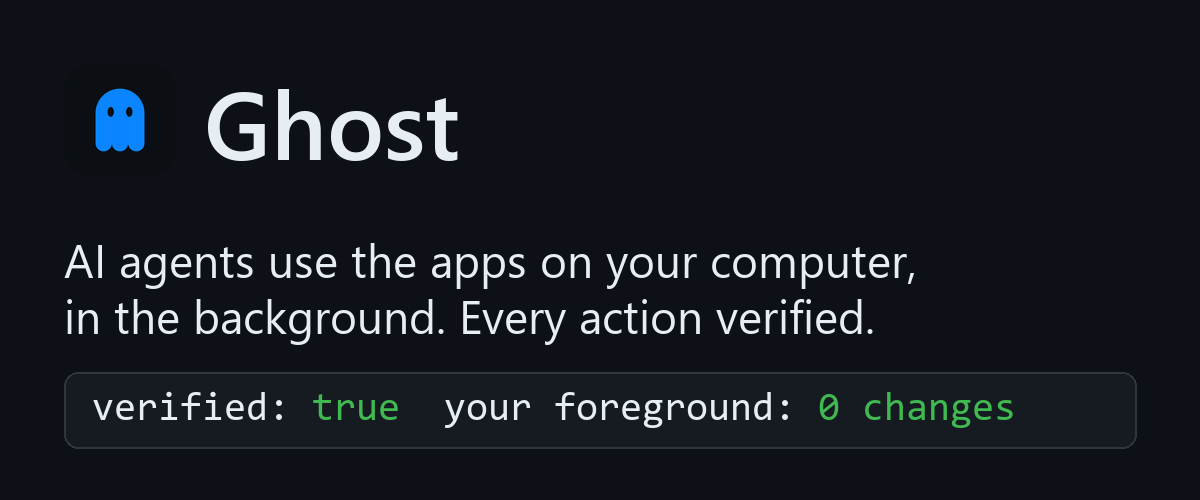
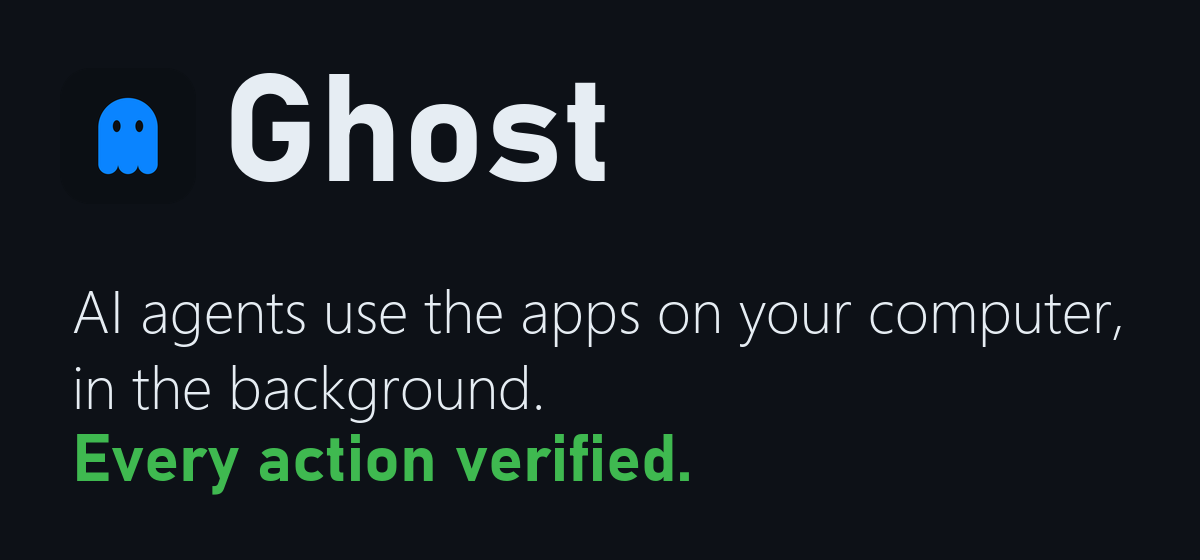
docs(readme): one media width, own type pairing in the art, symptom-first troubleshooting

Changed region(s): [[0.0308, 0.48, 0.9558, 0.9], [0.0617, 0.12, 0.5242, 0.33], [0.6783, 0.78, 0.8633, 0.84]]

diff --git a/scripts/readme-art.py b/scripts/readme-art.py
@@ -1,6 +1,8 @@
 """Draws the README banner and the measured-claims card in the demo GIF's
-palette (GitHub dark, Segoe UI Semibold + Consolas), sized so their text stays
-readable when GitHub shrinks them to a 400px phone column.
+palette (GitHub dark, the green that means "verified"), with one type pairing
+of their own: Bahnschrift Bold for the name and the numbers, Segoe UI Light
+for the words. Both are drawn at 1200px and shown at 520px, the demo's width,
+so their text stays readable when GitHub shrinks them to a 400px phone column.
 
     python scripts/readme-art.py        # writes assets/banner.png, assets/proof.png
 
@@ -11,11 +13,12 @@ from pathlib import Path
 from PIL import Image, ImageDraw, ImageFont
 
 ROOT = Path(__file__).resolve().parent.parent
-BG, PANEL, BORDER = "#0d1117", "#161b22", "#30363d"
-TEXT, MUTED, BLUE, GREEN = "#e6edf3", "#8b949e", "#58a6ff", "#3fb950"
+BG, BORDER = "#0d1117", "#30363d"
+TEXT, MUTED, GREEN = "#e6edf3", "#8b949e", "#3fb950"
+W, PAD = 1200, 72
 
 
-def font(names, size):
+def first_font(names, size):
     for name in names:
         for base in ("C:/Windows/Fonts/", "/usr/share/fonts/truetype/dejavu/", ""):
             try:
@@ -25,81 +28,71 @@ def font(names, size):
     raise SystemExit(f"none of {names} found")
 
 
-def sans_b(size):
-    return font(["seguisb.ttf", "DejaVuSans-Bold.ttf"], size)
+def display(size):
+    f = first_font(["bahnschrift.ttf", "DejaVuSansCondensed-Bold.ttf"], size)
+    try:
+        f.set_variation_by_name("Bold")
+    except (OSError, ValueError, AttributeError):
+        pass  # not a variable font: already bold
+    return f
 
 
-def sans(size):
-    return font(["segoeui.ttf", "DejaVuSans.ttf"], size)
+def light(size):
+    return first_font(["segoeuil.ttf", "DejaVuSans-ExtraLight.ttf", "DejaVuSans.ttf"], size)
 
 
-def mono(size):
-    return font(["consola.ttf", "DejaVuSansMono.ttf"], size)
+def fit(draw, text, maker, size, width):
+    """The largest font from `maker` at or below `size` that fits `width`."""
+    while size > 10:
+        f = maker(size)
+        if draw.textlength(text, font=f) <= width:
+            return f
+        size -= 2
+    return maker(size)
 
 
 def banner():
-    W, H, PAD = 1200, 500, 64
+    H = 560
     im = Image.new("RGB", (W, H), BG)
     d = ImageDraw.Draw(im)
-    icon = Image.open(ROOT / "assets/icon.png").convert("RGBA").resize((112, 112), Image.LANCZOS)
-    im.paste(icon, (PAD, PAD), icon)
-    d.text((PAD + 140, PAD + 56), "Ghost", font=sans_b(96), fill=TEXT, anchor="lm")
-    tag = sans(46)
-    d.text((PAD, 228), "AI agents use the apps on your computer,", font=tag, fill=TEXT)
-    d.text((PAD, 284), "in the background. Every action verified.", font=tag, fill=TEXT)
-    # The receipt every ghost_act call returns, as in the demo.
-    y, box_h = 372, 76
-    d.rounded_rectangle((PAD, y, W - PAD, y + box_h), radius=14, fill=PANEL, outline=BORDER, width=2)
-    m = mono(40)
-    x = PAD + 28
-    for key, value in (("verified", "true"), ("your foreground", "0 changes")):
-        d.text((x, y + box_h // 2), f"{key}: ", font=m, fill=TEXT, anchor="lm")
-        x += d.textlength(f"{key}: ", font=m)
-        d.text((x, y + box_h // 2), value, font=m, fill=GREEN, anchor="lm")
-        x += d.textlength(value, font=m) + 44
+    icon = Image.open(ROOT / "assets/icon.png").convert("RGBA").resize((136, 136), Image.LANCZOS)
+    im.paste(icon, (PAD - 12, PAD - 4), icon)
+    d.text((PAD + 150, PAD + 64), "Ghost", font=display(150), fill=TEXT, anchor="lm")
+    lines = ["AI agents use the apps on your computer,", "in the background."]
+    f = fit(d, lines[0], light, 62, W - 2 * PAD)
+    y = 268
+    for line in lines:
+        d.text((PAD, y), line, font=f, fill=TEXT)
+        y += 76
+    d.text((PAD, y + 8), "Every action verified.", font=display(66), fill=GREEN)
     im.save(ROOT / "assets/banner.png", optimize=True)
 
 
 def proof():
     rows = [
-        ("2,949", "of about 2,950 keystrokes a person typed during six agent runs stayed in their window"),
-        ("0", "focus losses in a 160-action soak, with 0 unverified results"),
-        ("14/14", "benchmark tasks passed when scored by re-observing the app"),
+        ("2,949 of ~2,950", ["keystrokes typed during six agent runs", "stayed in the person's window"]),
+        ("0", ["focus losses in a 160-action soak,", "and 0 unverified results"]),
+        ("14 of 14", ["benchmark tasks passed, scored by", "re-observing the app"]),
     ]
-    W, PAD, NUM_W = 1200, 56, 280
-    big, label = sans_b(84), sans(40)
-    text_x = PAD + NUM_W
-    text_w = W - PAD - text_x
+    NUM, LINE, GAP = 118, 64, 56
     probe = ImageDraw.Draw(Image.new("RGB", (1, 1)))
-
-    def wrap(text):
-        lines, line = [], ""
-        for word in text.split():
-            trial = f"{line} {word}".strip()
-            if probe.textlength(trial, font=label) <= text_w:
-                line = trial
-            else:
-                lines.append(line)
-                line = word
-        return lines + [line]
-
-    wrapped = [wrap(t) for _, t in rows]
-    LINE, GAP = 52, 44
-    heights = [max(len(w) * LINE, 100) for w in wrapped]
-    H = PAD * 2 + sum(heights) + GAP * (len(rows) - 1)
+    words = min(fit(probe, l, light, 54, W - 2 * PAD).size for _, ls in rows for l in ls)
+    lf = light(words)
+    row_h = NUM + 20 + LINE * 2
+    H = PAD * 2 + row_h * len(rows) + GAP * (len(rows) - 1)
     im = Image.new("RGB", (W, H), BG)
     d = ImageDraw.Draw(im)
+    big = display(NUM)
     top = PAD
-    for i, ((num, _), lines, h) in enumerate(zip(rows, wrapped, heights)):
+    for i, (num, lines) in enumerate(rows):
         if i:
             d.line((PAD, top - GAP // 2, W - PAD, top - GAP // 2), fill=BORDER, width=2)
-        mid = top + h // 2
-        d.text((PAD, mid), num, font=big, fill=GREEN, anchor="lm")
-        y = mid - (len(lines) * LINE) // 2 + LINE // 2
+        d.text((PAD, top), num, font=big, fill=GREEN, anchor="la")
+        y = top + NUM + 20
         for line in lines:
-            d.text((text_x, y), line, font=label, fill=TEXT, anchor="lm")
+            d.text((PAD, y), line, font=lf, fill=TEXT, anchor="la")
             y += LINE
-        top += h + GAP
+        top += row_h + GAP
     im.save(ROOT / "assets/proof.png", optimize=True)
 
 

diff --git a/README.md b/README.md
@@ -1,22 +1,22 @@
 <div align="center">
 
-<img src="assets/banner.png" width="880" alt="Ghost. AI agents use the apps on your computer, in the background. Every action verified. Below, the receipt every action returns: verified: true, your foreground: 0 changes.">
+<img src="assets/banner.png" width="520" alt="Ghost: AI agents use the apps on your computer, in the background. Every action verified.">
 
 [![CI](https://github.com/NORTHTEKDevs/ghost/actions/workflows/ci.yml/badge.svg)](https://github.com/NORTHTEKDevs/ghost/actions/workflows/ci.yml)
 [![Release](https://img.shields.io/github/v/release/NORTHTEKDevs/ghost?color=blue)](https://github.com/NORTHTEKDevs/ghost/releases/latest)
 [![License: MIT](https://img.shields.io/badge/license-MIT-blue.svg)](LICENSE)
 
-**[Quick start](#quick-start)** · [Connect](#2-connect-your-client) · [Try it](#3-try-it) · [Safety](#safety-model) · [Troubleshooting](#troubleshooting) · [Docs](docs/README.md)
+**[Quick start](#quick-start)** · [Connect](#2-connect-your-client) · [Try it](#3-try-it) · [Safety](#safety-model) · [Docs](docs/README.md)
 
 </div>
 
 <p align="center">
   <a href="assets/demo.gif"><img src="assets/demo-stacked.gif" width="520" alt="The run's result first: an agent's second click on a button returns verified: true, verified_by: title, focus_preserved: true and cursor_preserved: true, Ghost's screenshot shows the window title counting the click, and the user's foreground window recorded 0 changes. Then the run from the start: Ghost launches the app on its hidden desktop, types into a field and clicks a button, each call verified."></a>
-  <br>
-  An agent drives an app on Ghost's hidden desktop, never on your screen.
-  Recorded, not drawn: <a href="scripts/demo-capture.mjs">the recording script</a>,
-  <a href="assets/demo.gif">full-width recording</a>.
 </p>
+
+An agent drives an app on Ghost's hidden desktop, never on your screen. Recorded,
+not drawn: [recording script](scripts/demo-capture.mjs) ·
+[full-width recording](assets/demo.gif).
 
 Ghost is an [MCP](https://modelcontextprotocol.io) server, a CLI and a local
 REST API. It gives an agent the operating system's own control surface: the
@@ -39,7 +39,7 @@ screen and returns <code>verified:&nbsp;true</code> only when the change really 
 call it cannot complete fails with an error that says why.
 
 <p align="center">
-  <img src="assets/proof.png" width="880" alt="Measured: 2,949 of about 2,950 keystrokes a person typed during six agent runs stayed in their window. 0 focus losses in a 160-action soak, with 0 unverified results. 14 of 14 benchmark tasks passed when scored by re-observing the app.">
+  <img src="assets/proof.png" width="520" alt="Measured: 2,949 of about 2,950 keystrokes a person typed during six agent runs stayed in their window. 0 focus losses in a 160-action soak, with 0 unverified results. 14 of 14 benchmark tasks passed when scored by re-observing the app.">
 </p>
 
 How these were measured: [background mode](docs/background-mode.md#when-an-app-takes-the-foreground-itself)
@@ -335,7 +335,7 @@ need a Chromium-family browser (Chrome, Edge, Brave or Comet). Full matrix:
 ## Troubleshooting
 
 <details>
-<summary><code>Windows protected your PC</code> on first run</summary>
+<summary>Windows shows <code>Windows protected your PC</code></summary>
 
 The binaries are not code-signed yet. Choose *More info*, then *Run anyway*, or
 [verify the download](docs/install.md#check-where-a-download-came-from) first.
@@ -343,7 +343,7 @@ The binaries are not code-signed yet. Choose *More info*, then *Run anyway*, or
 </details>
 
 <details>
-<summary><code>ghost: command not found</code></summary>
+<summary>The shell says <code>ghost: command not found</code></summary>
 
 Open a new terminal after installing. On Linux, add `~/.local/bin` to your
 `PATH`; the installer prints the line to add.
@@ -351,7 +351,7 @@ Open a new terminal after installing. On Linux, add `~/.local/bin` to your
 </details>
 
 <details>
-<summary>The <code>ghost_*</code> tools do not appear in the client</summary>
+<summary>No <code>ghost_*</code> tools appear in the client</summary>
 
 Use an absolute path to `ghost-mcp` and restart the client. To check the
 binary itself:
@@ -363,7 +363,7 @@ ghost-mcp --version
 </details>
 
 <details>
-<summary><code>element not found</code></summary>
+<summary>A call fails with <code>element not found</code></summary>
 
 The error lists the closest names in that window. `ghost_see` with
 `window=` set shows every control and its name.
@@ -371,7 +371,7 @@ The error lists the closest names in that window. `ghost_see` with
 </details>
 
 <details>
-<summary><code>focus policy is locked</code></summary>
+<summary>A call fails with <code>focus policy is locked</code></summary>
 
 By design: that action would take your screen. Let Ghost start the app
 (`ghost_window op=launch`) or the browser (`ghost_browser_launch`) and drive
@@ -380,7 +380,7 @@ it there.
 </details>
 
 <details>
-<summary><code>the human stopped Ghost</code></summary>
+<summary>A call fails with <code>the human stopped Ghost</code></summary>
 
 Someone pressed the emergency stop. Resume with
 <kbd>Ctrl</kbd>+<kbd>Alt</kbd>+<kbd>Shift</kbd>+<kbd>G</kbd>, or in a terminal:
@@ -392,7 +392,7 @@ ghost reset
 </details>
 
 <details>
-<summary>Linux: windows have no elements</summary>
+<summary>Linux windows show no elements</summary>
 
 Turn on the accessibility bus (step 1) and restart the apps. `ghost doctor`
 checks this.
@@ -431,9 +431,9 @@ again. To remove Ghost, see [uninstall](docs/install.md#uninstall).
 
 ## More
 
-[Install](docs/install.md) · [Using Ghost](docs/usage.md) · [Configuration](docs/configuration.md) ·
-[Security model](docs/security-model.md) · [Background mode](docs/background-mode.md) ·
-[Benchmarks](docs/benchmarks.md) · [Tool reference](docs/tools.md) · [Changelog](CHANGELOG.md) · [All docs](docs/README.md)
+- Guides: [install](docs/install.md), [using Ghost](docs/usage.md), [configuration](docs/configuration.md)
+- Proof and safety: [security model](docs/security-model.md), [background mode](docs/background-mode.md), [benchmarks](docs/benchmarks.md)
+- Reference: [tools](docs/tools.md), [changelog](CHANGELOG.md), [all docs](docs/README.md)
 
 Pull requests: [CONTRIBUTING.md](CONTRIBUTING.md). Vulnerabilities go through
 [SECURITY.md](SECURITY.md), not public issues. [MIT](LICENSE), copyright 2026
